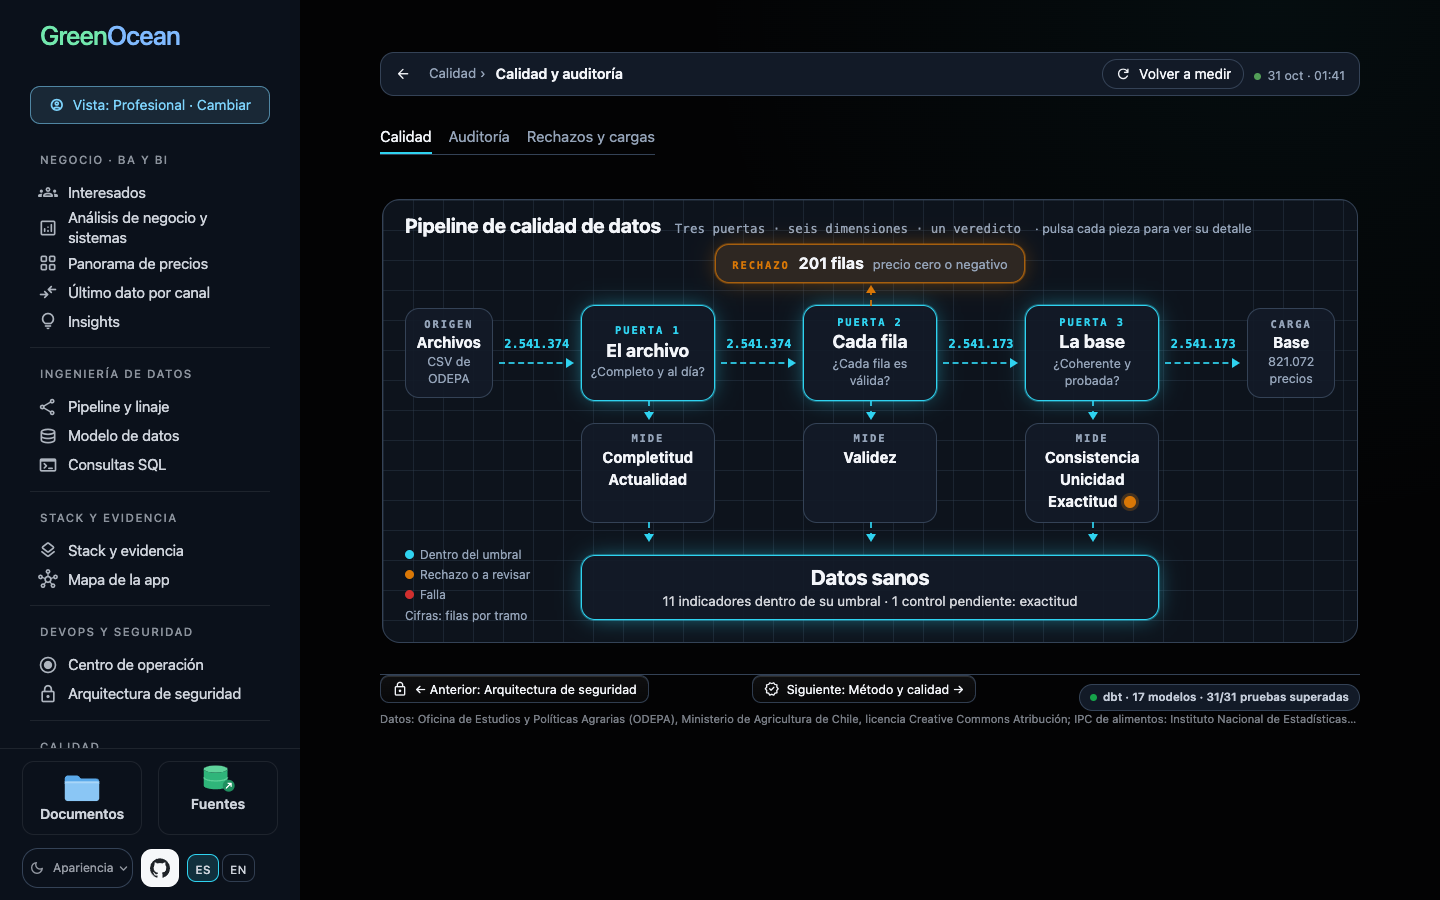
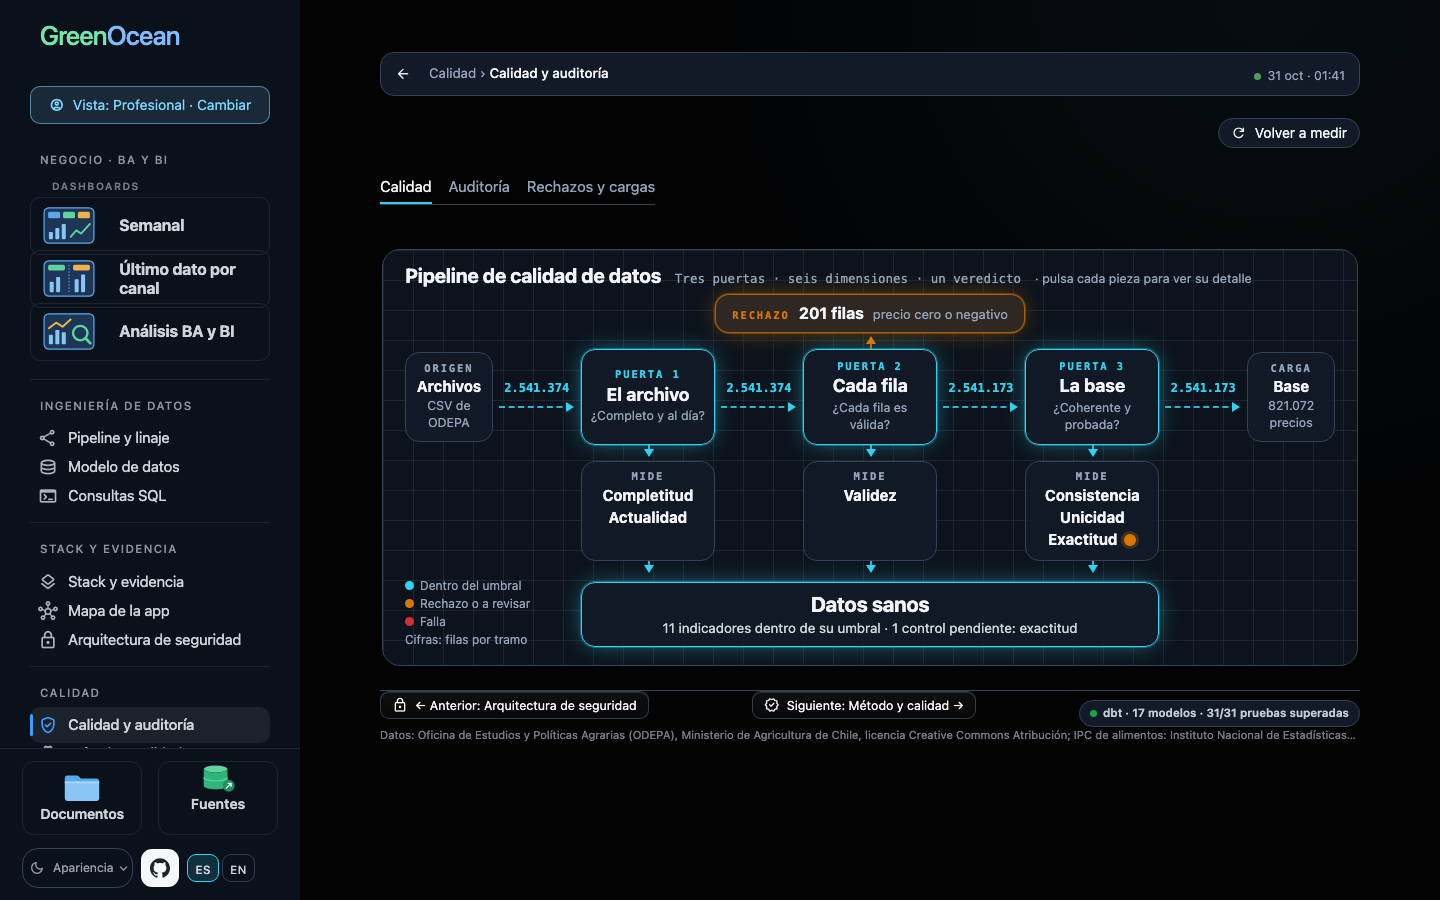
fix(app): cierre de la app: inglés de «Pipeline y linaje», ficha completa del mapa, «Al abrir el panel», imágenes del README y menú angosto (D-473)

diff --git a/bi/i18n_en.py b/bi/i18n_en.py
@@ -1679,11 +1679,10 @@ PAGES = {
     "Cada martes": "Every Tuesday",
     "Cada mes": "Every month",
     "Cada push": "Every push",
-    "Siempre": "Always",
     "▶ Cada martes": "▶ Every Tuesday",
     "▶ Cada mes": "▶ Every month",
     "▶ Cada push": "▶ Every push",
-    "▶ Siempre": "▶ Always",
+    "▶ Al abrir el panel": "▶ When the panel opens",
     "▶ Recorrido del martes": "▶ Tuesday walkthrough",
     "accesos": "access",
     "propio": "own",
@@ -1788,7 +1787,7 @@ PAGES = {
     "Copia fiel; no se publica.": "Faithful copy; not published.",
     "Corre bi/dashboard.py con sus secretos.": "Runs bi/dashboard.py with its secrets.",
     "Corre el Panel web desde la rama main y guarda sus secretos: CONTROL_CODE, GITHUB_TOKEN y GITHUB_READ_TOKEN.": "Runs the Web panel from the main branch and keeps its secrets: CONTROL_CODE, GITHUB_TOKEN and GITHUB_READ_TOKEN.",
-    "Corre el Panel web desde la rama main y guarda sus secretos: CONTROL_CODE, GITHUB_TOKEN y GITHUB_READ_TOKEN. Siempre; despierta la app cuando alguien la visita.": "Runs the Web panel from the main branch and keeps its secrets: CONTROL_CODE, GITHUB_TOKEN and GITHUB_READ_TOKEN. Always; it wakes the app up when someone visits it.",
+    "Corre el Panel web desde la rama main y guarda sus secretos: CONTROL_CODE, GITHUB_TOKEN y GITHUB_READ_TOKEN. Al abrir el panel; despierta la app cuando alguien la visita.": "Runs the Web panel from the main branch and keeps its secrets: CONTROL_CODE, GITHUB_TOKEN and GITHUB_READ_TOKEN. When the panel opens; it wakes the app up when someone visits it.",
     "Corre ruff, mypy, dbt parse y pytest sobre la base publicada, en Python 3.11 y 3.12; nunca publica nada.": "Runs ruff, mypy, dbt parse and pytest on the published database, in Python 3.11 and 3.12; it never publishes anything.",
     "Corre ruff, mypy, dbt parse y pytest sobre la base publicada, en Python 3.11 y 3.12; nunca publica nada. En cada push y en cada pull request.": "Runs ruff, mypy, dbt parse and pytest on the published database, in Python 3.11 and 3.12; it never publishes anything. On every push and every pull request.",
     "Cuando el Autor entra con su clave.": "When the Author enters with their code.",
@@ -1997,7 +1996,7 @@ PAGES = {
     "Si un paso falla, los siguientes no corren y la base publicada no cambia; GitHub manda un correo y el Autor ve el aviso. No verificado: qué cuenta como actividad para que GitHub no apague el cron tras 60 días.": "If a step fails, the next ones do not run and the published database does not change; GitHub sends an email and the Author sees the alert. Not verified: what counts as activity so that GitHub does not turn off the cron after 60 days.",
     "Si un paso falla, los siguientes no corren.": "If a step fails, the next ones do not run.",
     "Si una carga falla, la base publicada sigue siendo la anterior, con su fecha a la vista.": "If a load fails, the published database is still the previous one, with its date in sight.",
-    "Siempre; despierta la app cuando alguien la visita.": "Always; it wakes the app up when someone visits it.",
+    "Al abrir el panel; despierta la app cuando alguien la visita.": "When the panel opens; it wakes the app up when someone visits it.",
     "Sin GITHUB_TOKEN, «Ejecutar pipeline ahora» queda inactivo; sin GITHUB_READ_TOKEN, el panel lee GitHub sin clave, con 60 consultas por hora.": "Without GITHUB_TOKEN, «Run pipeline now» stays inactive; without GITHUB_READ_TOKEN, the panel reads GitHub without a key, with 60 queries per hour.",
     "Sin GitHub no hay carga, ni release, ni estado en vivo; el panel sigue con la última base descargada.": "Without GitHub there is no load, no release and no live status; the panel keeps the last downloaded database.",
     "Sin acceso a archivos ni a la red.": "No access to files or to the network.",
@@ -2494,6 +2493,19 @@ PAGES = {
     "copia por año": "copy per year",
     "IPC, directo": "CPI, straight",
     "martes 12:00 UTC": "Tuesday 12:00 UTC",  # D-469
+    # D-473: the layers of «Pipeline y linaje», written in capitals, and the texts the English audit did not catch
+    "FUENTES": "SOURCES",
+    "INGESTA": "INGESTION",
+    "ATERRIZAJE": "LANDING",
+    "INTERMEDIO": "INTERMEDIATE",
+    "CONSUMO": "CONSUMPTION",
+    "EJECUTA": "RUNS",
+    "SQLite · tal cual llega": "SQLite · as it arrives",
+    "Parquet · copia exacta": "Parquet · exact copy",
+    "Agente ODEPA": "ODEPA agent",
+    # D-473: the full card of a piece of the map, from its description
+    "Ver la ficha completa": "See the full card",
+    "Al abrir el panel": "When the panel opens",
     # D-471: the steps of the load beside the map
     "La carga semanal, paso a paso": "The weekly load, step by step",
     "GitHub Actions (cron del martes)": "GitHub Actions (Tuesday cron)",

diff --git a/bi/app_map.py b/bi/app_map.py
@@ -329,7 +329,7 @@ NODES = {
         ("top", 8),
         "El servicio gratuito que publica el panel.",
         "Corre el Panel web desde la rama main y guarda sus secretos: CONTROL_CODE, GITHUB_TOKEN y GITHUB_READ_TOKEN.",
-        "Siempre; despierta la app cuando alguien la visita.",
+        "Al abrir el panel; despierta la app cuando alguien la visita.",
         "Stack y evidencia",
         [],
     ),
@@ -1382,8 +1382,10 @@ def build_tip(key):
         )
     # Up to three short columns (what it is, what it touches, what it includes), so the box is wide and low and covers
     # as little of the drawing as possible.
+    # D-473: the full card (its numbers, with the command that gives each one) opens from here
+    more = f'<button type="button" class="am-tipcard" data-card="{key}">{esc("Ver la ficha completa")}</button>'
     return (
-        f'<span class="am-tip" role="tooltip"><span class="am-tip-col">{left}</span>'
+        f'<span class="am-tip" role="tooltip"><span class="am-tip-col">{left}{more}</span>'
         f'<span class="am-tip-col">{right}</span>{extra}</span>'
     )
 
@@ -1761,6 +1763,11 @@ def build_css(palette):
 .am-tip i {{ margin-top:5px; font-style:normal; font-size:10.5px; font-weight:600; letter-spacing:.06em; text-transform:uppercase; color:{muted}; }}
 .am-tip b {{ color:{ink}; font-weight:600; }}
 .am-tip-name {{ font-size:13px; }}
+.am-tipcard {{ pointer-events:auto; align-self:flex-start; margin-top:8px; padding:3px 9px; border-radius:8px; cursor:pointer; font:inherit;
+  font-size:11.5px; font-weight:600; color:{accent}; border:1px solid color-mix(in srgb, {accent} 55%, transparent);
+  background:transparent; }}
+.am-tipcard::after {{ content:" →"; }}
+.am-tipcard:hover, .am-tipcard:focus-visible {{ background:color-mix(in srgb, {accent} 16%, transparent); outline:none; }}
 .am-node.tipped .am-tip {{ display:grid; }}
 .am-node[style*="grid-column:1"] .am-tip, .am-node[style*="grid-column:2"] .am-tip,
 .am-node[style*="grid-column:3"] .am-tip {{ left:0; transform:none; }}
@@ -2442,6 +2449,11 @@ SCRIPT = r"""<script>
       });
     });
     map.addEventListener("click", (event) => { if (!event.target.closest(".am-info, .am-tip")) { closeTip(); } });
+    map.querySelectorAll(".am-tipcard").forEach((button) => button.addEventListener("click", (event) => {
+      event.stopPropagation();
+      closeTip();
+      openCard('[data-card="' + button.dataset.card + '"]');
+    }));
     map.querySelectorAll(".am-zoom, .am-lupa").forEach((button) => {
       button.addEventListener("click", (event) => {
         event.stopPropagation();
@@ -2548,14 +2560,14 @@ SCRIPT = r"""<script>
       return () => { clearTimeout(timer); timer = setTimeout(work, 90); };
     };
     // D-467: at rest, the week's data travels its real way, one line at a time: from ODEPA and the INE through each stage
-    // to the panel and the people; the story waits while a piece, a theme, the walk or a description is in view.
+    // to the panel and the people; the story waits while a piece, a theme, the walk, a description or a card is in view.
     const story = JSON.parse(main.dataset.story || "[]");
     const tale = { at: 0, timer: null };
     const tell = () => {
       clearTimeout(tale.timer);
       if (!story.length) { return; }
       const resting = !state.tour && !state.pick && !state.hover && !state.tip && !map.dataset.filter
-        && !map.dataset.rhythm && !main.hidden;
+        && !map.dataset.rhythm && !main.hidden && !map.classList.contains("has-card");
       map.classList.toggle("telling", resting);
       if (!resting) {
         if (state.story) { state.story = null; }

diff --git a/bi/dashboard.py b/bi/dashboard.py
@@ -8189,12 +8189,14 @@ FOLD_SIDEBAR_SCRIPT = f"""<script>
 // D-166: a phone turned sideways shows the computer layout, menu included. Streamlit
 // folded the menu when the page opened upright, so it opens again on turning.
 const phoneLandscape = window.matchMedia("(orientation: landscape) and (max-height: 500px)");
+// D-473: Streamlit marks the menu with data-collapsed; older versions, with aria-expanded.
+const isOpen = (sidebar) => sidebar.dataset.collapsed === "false" || sidebar.getAttribute("aria-expanded") === "true";
 const openMenu = () => {{
     let attempts = 0;
     const open = () => {{
         const sidebar = document.querySelector('[data-testid="stSidebar"]');
         const button = document.querySelector('[data-testid="stExpandSidebarButton"]');
-        if (sidebar && sidebar.getAttribute("aria-expanded") === "true") {{ return; }}
+        if (sidebar && isOpen(sidebar)) {{ return; }}
         if (button) {{ button.click(); }} else if (attempts++ < 40) {{ setTimeout(open, 100); }}
     }};
     open();
@@ -8211,10 +8213,10 @@ let tries = 0;
 const fold = () => {{
     const sidebar = document.querySelector('[data-testid="stSidebar"]');
     const button = document.querySelector('[data-testid="stSidebarCollapseButton"] button');
-    if (sidebar && button && sidebar.getAttribute("aria-expanded") === "true") {{
+    if (sidebar && button && isOpen(sidebar)) {{
         button.click();
         try {{ sessionStorage.setItem("sidebarFolded", "yes"); }} catch (error) {{}}
-    }} else if (sidebar && sidebar.getAttribute("aria-expanded") === "false") {{
+    }} else if (sidebar && !isOpen(sidebar)) {{
         try {{ sessionStorage.setItem("sidebarFolded", "yes"); }} catch (error) {{}}
     }} else if (tries++ < 40) {{
         setTimeout(fold, 100);

diff --git a/tests/test_app_map.py b/tests/test_app_map.py
@@ -478,3 +478,17 @@ def test_d471_the_steps_of_the_load_sit_beside_the_map_grouped_by_who_runs_them(
     script = app_map.SCRIPT
     assert 'item.classList.toggle("now", Number(item.dataset.step) === tale.at)' in script
     assert "tale.at = Number(item.dataset.step);" in script and "const side = aside && aside.offsetWidth" in script
+
+
+def test_d473_the_full_card_opens_from_the_description_and_the_panel_rhythm_says_when_it_works():
+    """The «i» description carries the button to the full card, and the panel's rhythm says it works when opened, never
+    «Siempre»: nothing in the system runs all the time."""
+    tip = app_map.build_tip("duckdb")
+    assert 'class="am-tipcard" data-card="duckdb"' in tip and "Ver la ficha completa" in tip
+    script = app_map.SCRIPT
+    assert "closeTip();\n      openCard('[data-card=\"' + button.dataset.card + '\"]');" in script
+    assert '!map.classList.contains("has-card")' in script  # the story waits while the card is open
+    rhythms = dict(app_map_detail.RHYTHMS)
+    assert rhythms["always"] == "Al abrir el panel" and "Siempre" not in rhythms.values()
+    for text in ("Ver la ficha completa", "Al abrir el panel"):
+        assert i18n.lookup(text), text

diff --git a/tests/test_architecture.py b/tests/test_architecture.py
@@ -301,3 +301,21 @@ def test_d368_the_observability_band_holds_github_rest_api_in_both_journeys():
 
     for text in ("API REST de GitHub", "dos tokens · cargas, logs, lanzar, cancelar", tooltip):
         assert text in i18n_en.PAGES, text
+
+
+def test_d473_the_capital_layer_names_and_their_lines_have_their_english():
+    """«Pipeline y linaje» writes its layers in capitals, which the English audit did not catch: each has its entry."""
+    from bi import i18n
+
+    for text in (
+        "FUENTES",
+        "INGESTA",
+        "ATERRIZAJE",
+        "INTERMEDIO",
+        "CONSUMO",
+        "EJECUTA",
+        "Agente ODEPA",
+        "SQLite · tal cual llega",
+        "Parquet · copia exacta",
+    ):
+        assert i18n.lookup(text), text

diff --git a/bi/app_map_detail.py b/bi/app_map_detail.py
@@ -33,7 +33,7 @@ RHYTHMS = [
     ("month", "Cada mes"),
     ("push", "Cada push"),
     ("manual", "Manual"),
-    ("always", "Siempre"),
+    ("always", "Al abrir el panel"),  # D-473: nothing runs all the time; the panel works when opened
 ]
 RHYTHM_OWNER = {"week": "semanal", "month": "ine", "push": "pruebas", "manual": "author", "always": "streamlit"}
 

diff --git a/docs/DECISIONES.md b/docs/DECISIONES.md
@@ -3850,3 +3850,13 @@ Desde D-279, el plan de capacidad y escalabilidad es un documento propio: `docs/
 - **Decisión:** en pantalla completa se quitan el recuadro y su margen; la lista «La carga semanal, paso a paso» ocupa la columna derecha, a toda la altura. La explicación de la «i» se abre encima mientras se lee, con la animación detenida.
 - **Medición (Playwright):** a 1440 × 900, en pantalla completa, el mapa ocupa la izquierda y la lista la derecha; la «i» de dbt abre su explicación sin cubrir la lista entera.
 - **Pruebas:** `tests/test_app_map.py` (sin el recuadro vacío y con la fila del mapa y su lista en pantalla completa).
+
+## D-473 · Cierre de la app: el inglés de «Pipeline y linaje», la ficha completa del mapa, «Al abrir el panel», las imágenes del README y el menú en pantallas angostas
+- **Pedido del autor:** terminar la app con cinco arreglos cortos.
+- **1. Inglés de «Pipeline y linaje»:** el diagrama mostraba en español FUENTES, INGESTA, ATERRIZAJE, INTERMEDIO, CONSUMO, EJECUTA, «Agente ODEPA», «SQLite · tal cual llega» y «Parquet · copia exacta». Ahora cada uno tiene su inglés. La auditoría de idioma no los veía, porque reconoce el español por sus acentos y palabras cortas; queda anotado como F-25.
+- **2. Ficha completa en el «Mapa de la app»:** desde D-467 la «i» abre solo la explicación corta, y la ficha con las cifras y sus comandos ya no se podía abrir. La explicación lleva ahora el botón «Ver la ficha completa», que la cierra y abre la ficha. El recorrido espera mientras la ficha está abierta.
+- **3. «Al abrir el panel»:** el ritmo «Siempre» hacía pensar que algo corre todo el tiempo. Nada corre así: el Panel web trabaja cuando alguien lo abre. El ritmo se llama ahora «Al abrir el panel» (en inglés, «When the panel opens»).
+- **4. Imágenes del README:** las cuatro capturas eran del 31-10, con el menú anterior. Se tomaron de nuevo a 1440 × 900, en la vista Profesional y sin el respaldo `etl/datos.db`, como en producción: Semanal, «Análisis BA y BI (Insights)», «Pipeline y linaje» y «Calidad y auditoría».
+- **5. Menú en pantallas angostas (D-166):** el script que pliega el menú en un teléfono horizontal leía `aria-expanded`, que Streamlit ya no escribe. Ahora lee también `data-collapsed`, como el pliegue de los dashboards.
+- **Medición (Playwright):** en el «Mapa de la app», la «i» de DuckDB y luego «Ver la ficha completa» abren la ficha, cierran la explicación y detienen el recorrido. En inglés, la auditoría ya no encuentra español en «Pipeline y linaje» ni en el «Mapa de la app».
+- **Pruebas:** `tests/test_architecture.py` (el inglés de las etiquetas en mayúsculas) y `tests/test_app_map.py` (el botón de la ficha, la pausa del recorrido y el nombre del ritmo).
